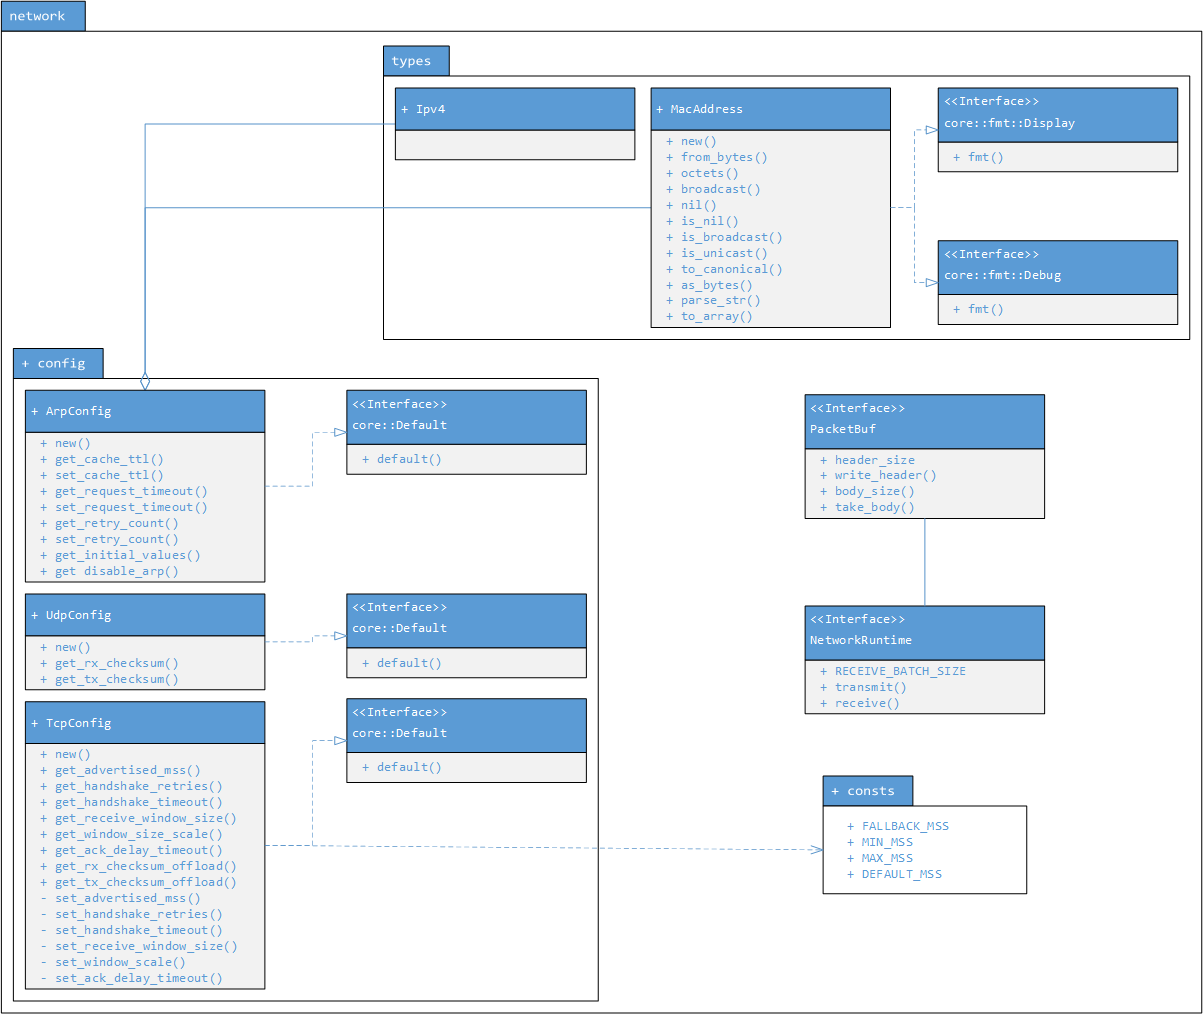
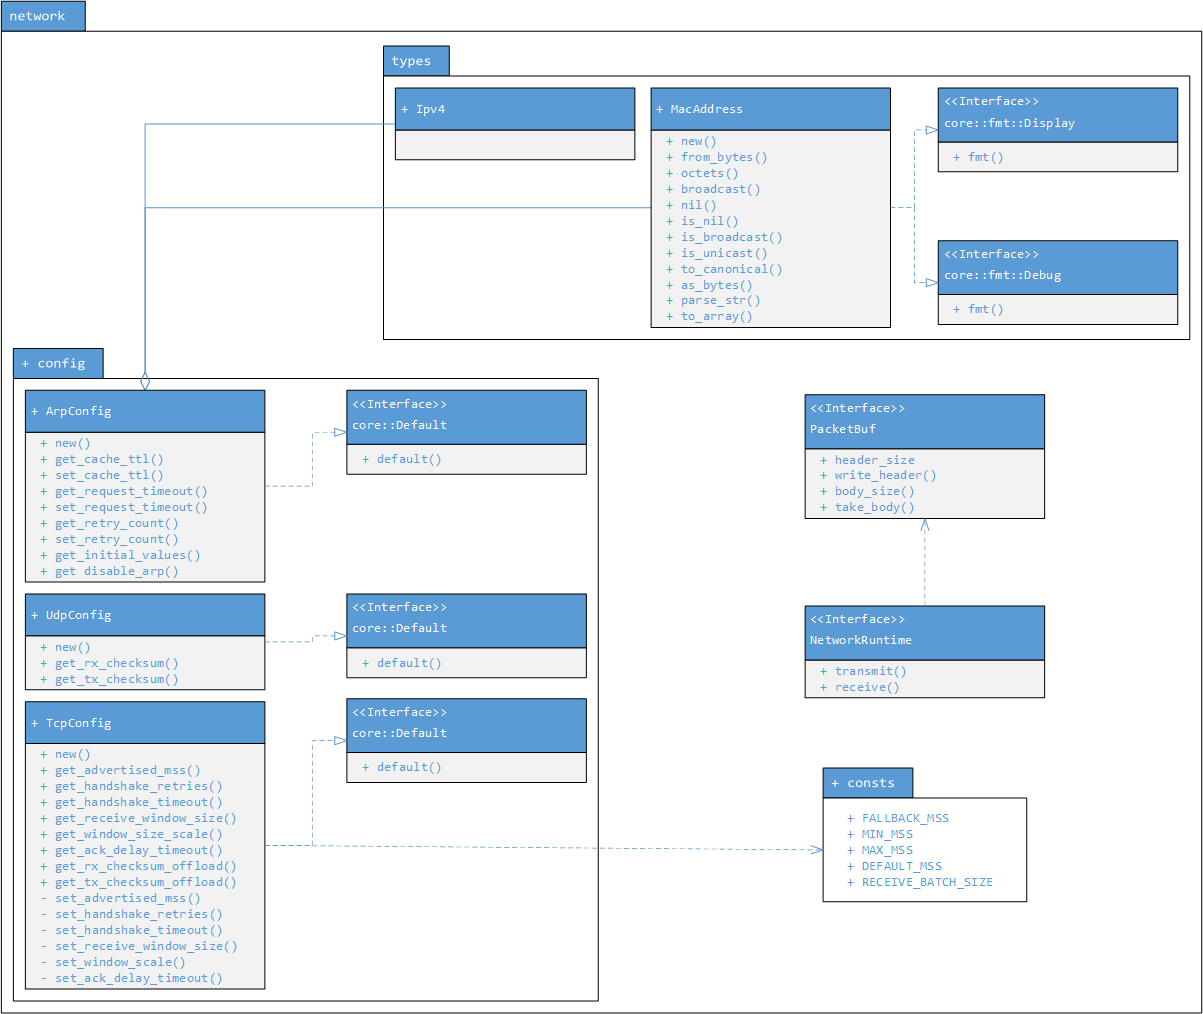
[network] Workaround: Hardcode RECEIVE_BATCH_SIZE

Changed region(s): [[0.6766, 0.7337, 0.8304, 0.8866], [0.6766, 0.642, 0.7689, 0.7032]]

diff --git a/src/network/mod.rs b/src/network/mod.rs
@@ -7,6 +7,7 @@
 
 use crate::{
     network::config::{ArpConfig, TcpConfig, UdpConfig},
+    network::consts::RECEIVE_BATCH_SIZE,
     network::types::{Ipv4Addr, MacAddress},
     MemoryRuntime,
 };
@@ -38,17 +39,11 @@ pub trait PacketBuf<T>: Sized {
 
 /// Network Runtime
 pub trait NetworkRuntime: MemoryRuntime {
-    /// Packet Buffers
-    type PacketBuffer: PacketBuf<Self::Buf>;
-
-    /// Length of a [PacketBuf] batch.
-    const RECEIVE_BATCH_SIZE: usize;
-
     /// Transmits a single [PacketBuf].
-    fn transmit(&self, pkt: Self::PacketBuffer);
+    fn transmit(&self, pkt: impl PacketBuf<Self::Buf>);
 
     /// Receives a batch of [PacketBuf].
-    fn receive(&self) -> ArrayVec<Self::Buf, { Self::RECEIVE_BATCH_SIZE }>;
+    fn receive(&self) -> ArrayVec<Self::Buf, RECEIVE_BATCH_SIZE>;
 
     /// Returns the [MacAddress] of the local endpoint.
     fn local_link_addr(&self) -> MacAddress;

diff --git a/src/lib.rs b/src/lib.rs
@@ -9,9 +9,6 @@
 #![deny(clippy::all)]
 #![feature(new_uninit)]
 #![feature(test)]
-// The following two features are on their way to get implemented.
-#![feature(const_evaluatable_checked)]
-#![feature(const_generics)]
 
 //==============================================================================
 // Imports

diff --git a/src/network/consts.rs b/src/network/consts.rs
@@ -18,3 +18,8 @@ pub const MAX_MSS: usize = u16::max_value() as usize;
 ///
 /// TODO: Auto-Discovery MTU Size
 pub const DEFAULT_MSS: usize = 1450;
+
+/// Length of a [PacketBuf] batch.
+///
+/// TODO: This Should be Generic
+pub const RECEIVE_BATCH_SIZE: usize = 4;
